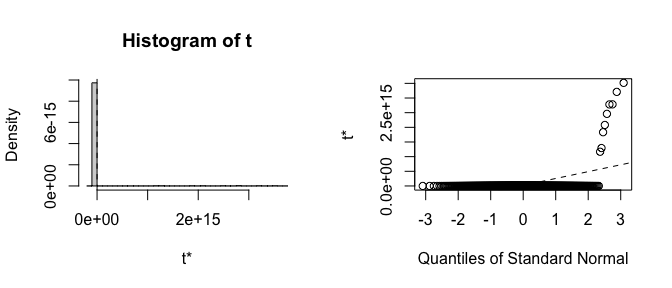
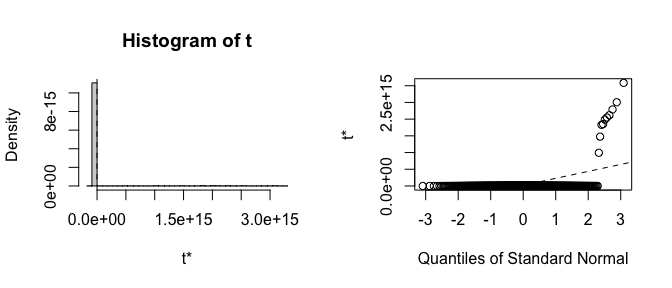
Cleaning and updates

diff --git a/README.md b/README.md
@@ -1,7 +1,7 @@
 
 <!-- README.md is generated from README.Rmd. Please edit that file -->
 
-# `fwb`: Fractional Weighted Bootstrap
+# *fwb*: Fractional Weighted Bootstrap
 
 <!-- badges: start -->
 
@@ -10,7 +10,7 @@ status](https://www.r-pkg.org/badges/version/fwb)](https://CRAN.R-project.org/pa
 [![CRAN_Downloads_Badge](https://cranlogs.r-pkg.org/badges/fwb)](https://CRAN.R-project.org/package=fwb)
 <!-- badges: end -->
 
-`fwb` implements the fractional weighted bootstrap (FWB), also known as
+*fwb* implements the fractional weighted bootstrap (FWB), also known as
 the Bayesian bootstrap, following the treatment by Xu et al. (2020). The
 FWB involves generating sets of weights from a uniform Dirichlet
 distribution to be used in estimating statistics of interest, which
@@ -25,27 +25,27 @@ normal, bias-corrected percentile, etc.), and `vcovFWB()`, a drop-in for
 `sandwich::vcovBS()` for computing a coefficient covariance matrix from
 a regression model using the FWB.
 
-Check out the `fwb` [website](https://ngreifer.github.io/fwb/)!
+Check out the *fwb* [website](https://ngreifer.github.io/fwb/)!
 
 ## Installation
 
-You can install the current stable version of `fwb` from CRAN with:
+You can install the current stable version of *fwb* from CRAN with:
 
 ``` r
 install.packages("fwb")
 ```
 
-You can install the development version of `fwb` from
-[GitHub](https://github.com/) with:
+You can install the development version of *fwb* from
+[GitHub](https://github.com/ngreifer/fwb) with:
 
 ``` r
-# install.packages("remotes")
-remotes::install_github("ngreifer/fwb")
+# install.packages("pak")
+pak::pak("ngreifer/fwb")
 ```
 
 ## Examples
 
-Below are some examples of how to use `fwb`. We set a seed to ensure all
+Below are some examples of how to use *fwb*. We set a seed to ensure all
 results are replicable. (Note that when parallel processing is used, a
 special kind of seed needs to be set; see `vignette("fwb-rep")` for
 details.)
@@ -132,9 +132,9 @@ library("lmtest")
 # The traditional bootstrap fails
 coeftest(fit, vcov = sandwich::vcovBS)[1:3, ]
 #>              Estimate   Std. Error       z value Pr(>|z|)
-#> (Intercept) -6.904101 2.285991e+22 -3.020179e-22        1
-#> spontaneous  3.230286 1.670378e+14  1.933866e-14        1
-#> induced      2.190303 1.194912e+14  1.833025e-14        1
+#> (Intercept) -6.904101 2.191250e+14 -3.150760e-14        1
+#> spontaneous  3.230286 2.109943e+14  1.530982e-14        1
+#> induced      2.190303 1.382598e+14  1.584193e-14        1
 
 # The fractional weighted bootstrap succeeds
 coeftest(fit, vcov = vcovFWB)[1:3, ]
@@ -182,9 +182,9 @@ boot_est
 #> 
 #> Bootstrap Statistics :
 #>      original       bias     std. error
-#> t1* -6.904101 2.629510e+21 8.083197e+22
-#> t2*  3.230286 2.114656e+13 2.336509e+14
-#> t3*  2.190303 1.696351e+13 1.878001e+14
+#> t1* -6.904101 1.012278e+20 2.447447e+21
+#> t2*  3.230286 2.020323e+13 2.080529e+14
+#> t3*  2.190303 1.533283e+13 1.656799e+14
 
 fwb_est <- fwb(infert, fit_fun, R = 999, verbose = FALSE)
 fwb_est
@@ -224,7 +224,7 @@ bias-corrected percentile interval should probably be computed instead.
 
 ## Weighted statistics and transformations
 
-`fwb` also contains utility functions for computing weighted statistics
+*fwb* also contains utility functions for computing weighted statistics
 to facilitate incorporation of bootstrapped weights into estimates.
 These include `w_mean()`, `w_var()`, `w_sd()`, `w_quantile()`, and
 `w_median()` for computing weighted means, variances, standard
@@ -240,10 +240,10 @@ incorporated.
 
 ## When to use the fractional weighted bootstrap
 
-The FWB is uniformly more reliable than the traditional bootstrap when a
+The FWB is typically more reliable than the traditional bootstrap when a
 weighted statistic can be computed (though this doesn’t mean the
 bootstrap is always valid). In most simple cases, both methods will
-yield the same results. In some pathological examples like those above,
+yield similar results. In some pathological examples like those above,
 the FWB dramatically outperforms the traditional bootstrap. This will be
 true when running regression models with sparse categorical variables
 either in the outcome or among the predictors, for example, when
@@ -255,20 +255,20 @@ it. Still, though, the FWB deserves a place in an analyst’s toolbox.
 
 ## Related packages
 
-- `boot`, which provides the traditional bootstrap, including an
+- *boot*, which provides the traditional bootstrap, including an
   interface that accepts frequency weights to compute weighted
   statistics, as was used above
-- `bayesboot`, which also provides functionality for the Bayesian
+- *bayesboot*, which also provides functionality for the Bayesian
   bootstrap but does so in a more explicitly Bayesian fashion and with
-  returned objects that are less consistent with those from `boot`
+  returned objects that are less consistent with those from *boot*
 
 ## Author
 
 - Noah Greifer (noah.greifer@gmail.com)
 
-## Citing `fwb`
+## Citing *fwb*
 
-To cite `fwb`, please use `citation("fwb")`, which generates a package
+To cite *fwb*, please use `citation("fwb")`, which generates a package
 citation.
 
 ## Community guidelines
